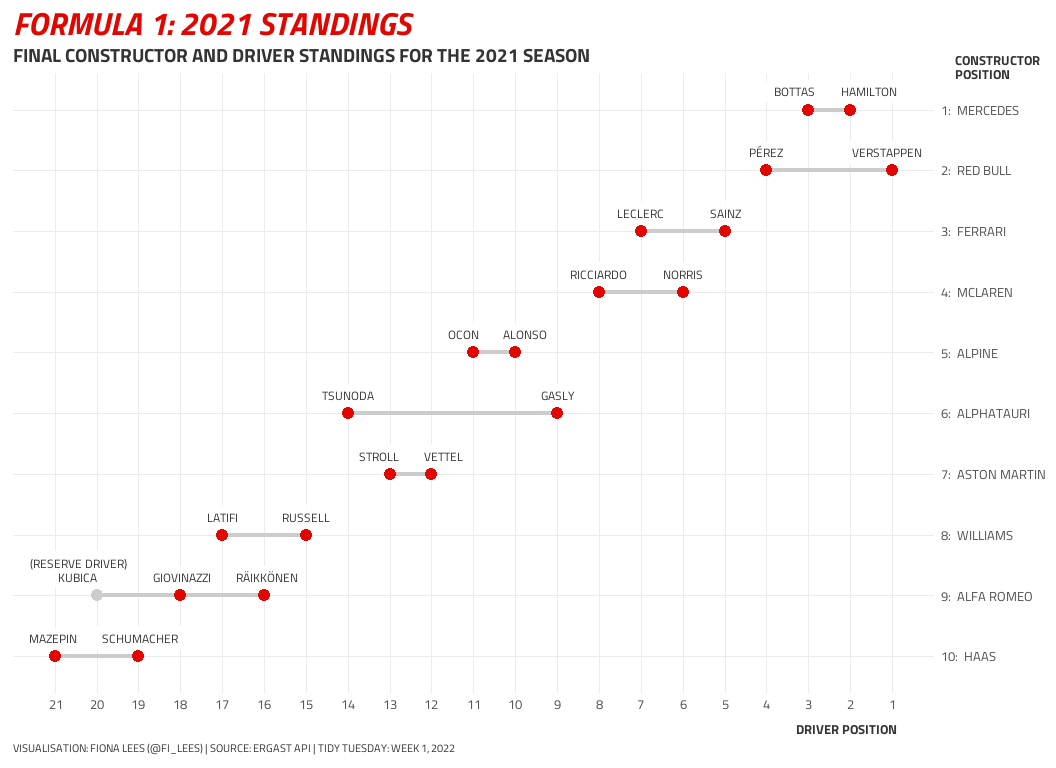
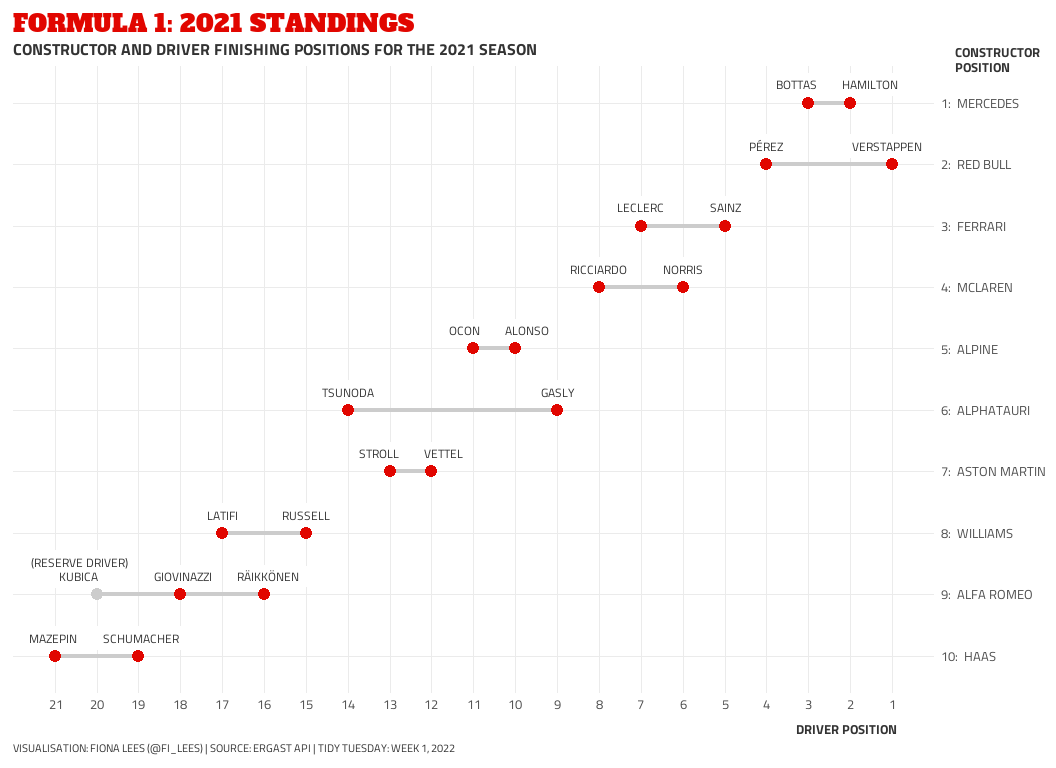
Update title font

diff --git a/2022/TT_2022_W1_BYOD_Formula_1/README.md b/2022/TT_2022_W1_BYOD_Formula_1/README.md
@@ -153,6 +153,7 @@ First, I'll load the font I want to use in my chart.
 ```r
 # Fonts
 showtext_auto(enable = TRUE)
+font_add_google("Alfa Slab One")
 font_add_google("Titillium Web")
 ```
 
@@ -215,9 +216,9 @@ p_final <- data_for_chart %>%
   theme(
     text = element_text(family = "Titillium Web", colour = "grey20", size = 12),
     plot.margin = margin(t = 10, r = 10, b = 10, l = 10),
-    plot.title = element_text(colour = "#e10600", size = 24, face = "bold.italic", 
+    plot.title = element_text(family = "Alfa Slab One", colour = "#e10600", size = 18, 
                               margin = margin(b = 5), hjust = 0),
-    plot.subtitle = element_text(size = 14, face = "bold", hjust = 0),
+    plot.subtitle = element_text(size = 12, face = "bold", hjust = 0),
     plot.caption = element_text(size = 8, hjust = 0),
     plot.background = element_rect(colour = "white", fill = "white"),
     panel.grid.minor = element_blank(),
@@ -230,7 +231,7 @@ p_final <- data_for_chart %>%
   # Titles
   labs(
     title = "FORMULA 1: 2021 STANDINGS",
-    subtitle = "FINAL CONSTRUCTOR AND DRIVER STANDINGS FOR THE 2021 SEASON",
+    subtitle = "CONSTRUCTOR AND DRIVER FINISHING POSITIONS FOR THE 2021 SEASON",
     x = "DRIVER POSITION",
     y = "CONSTRUCTOR\nPOSITION",
     caption = "VISUALISATION: FIONA LEES (@FI_LEES) | SOURCE: ERGAST API | TIDY TUESDAY: WEEK 1, 2022"
